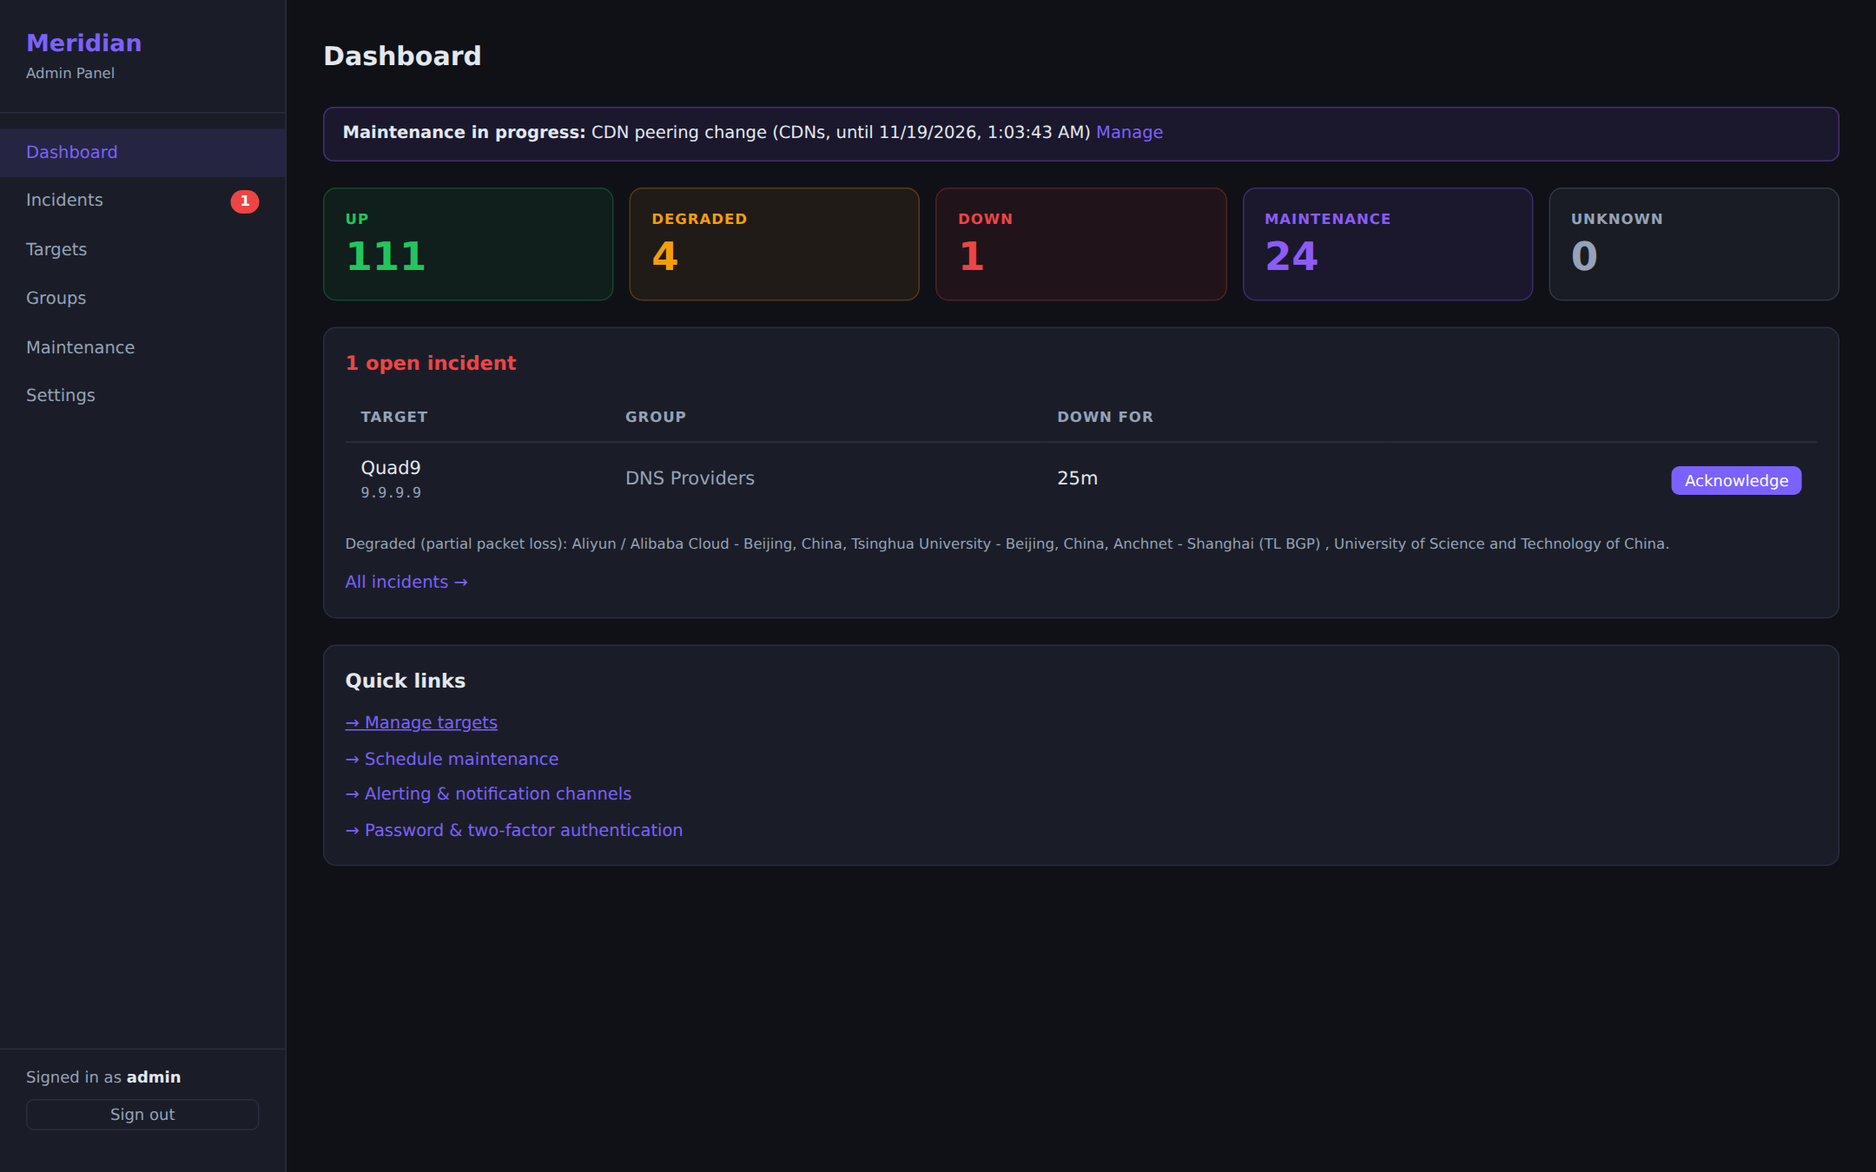
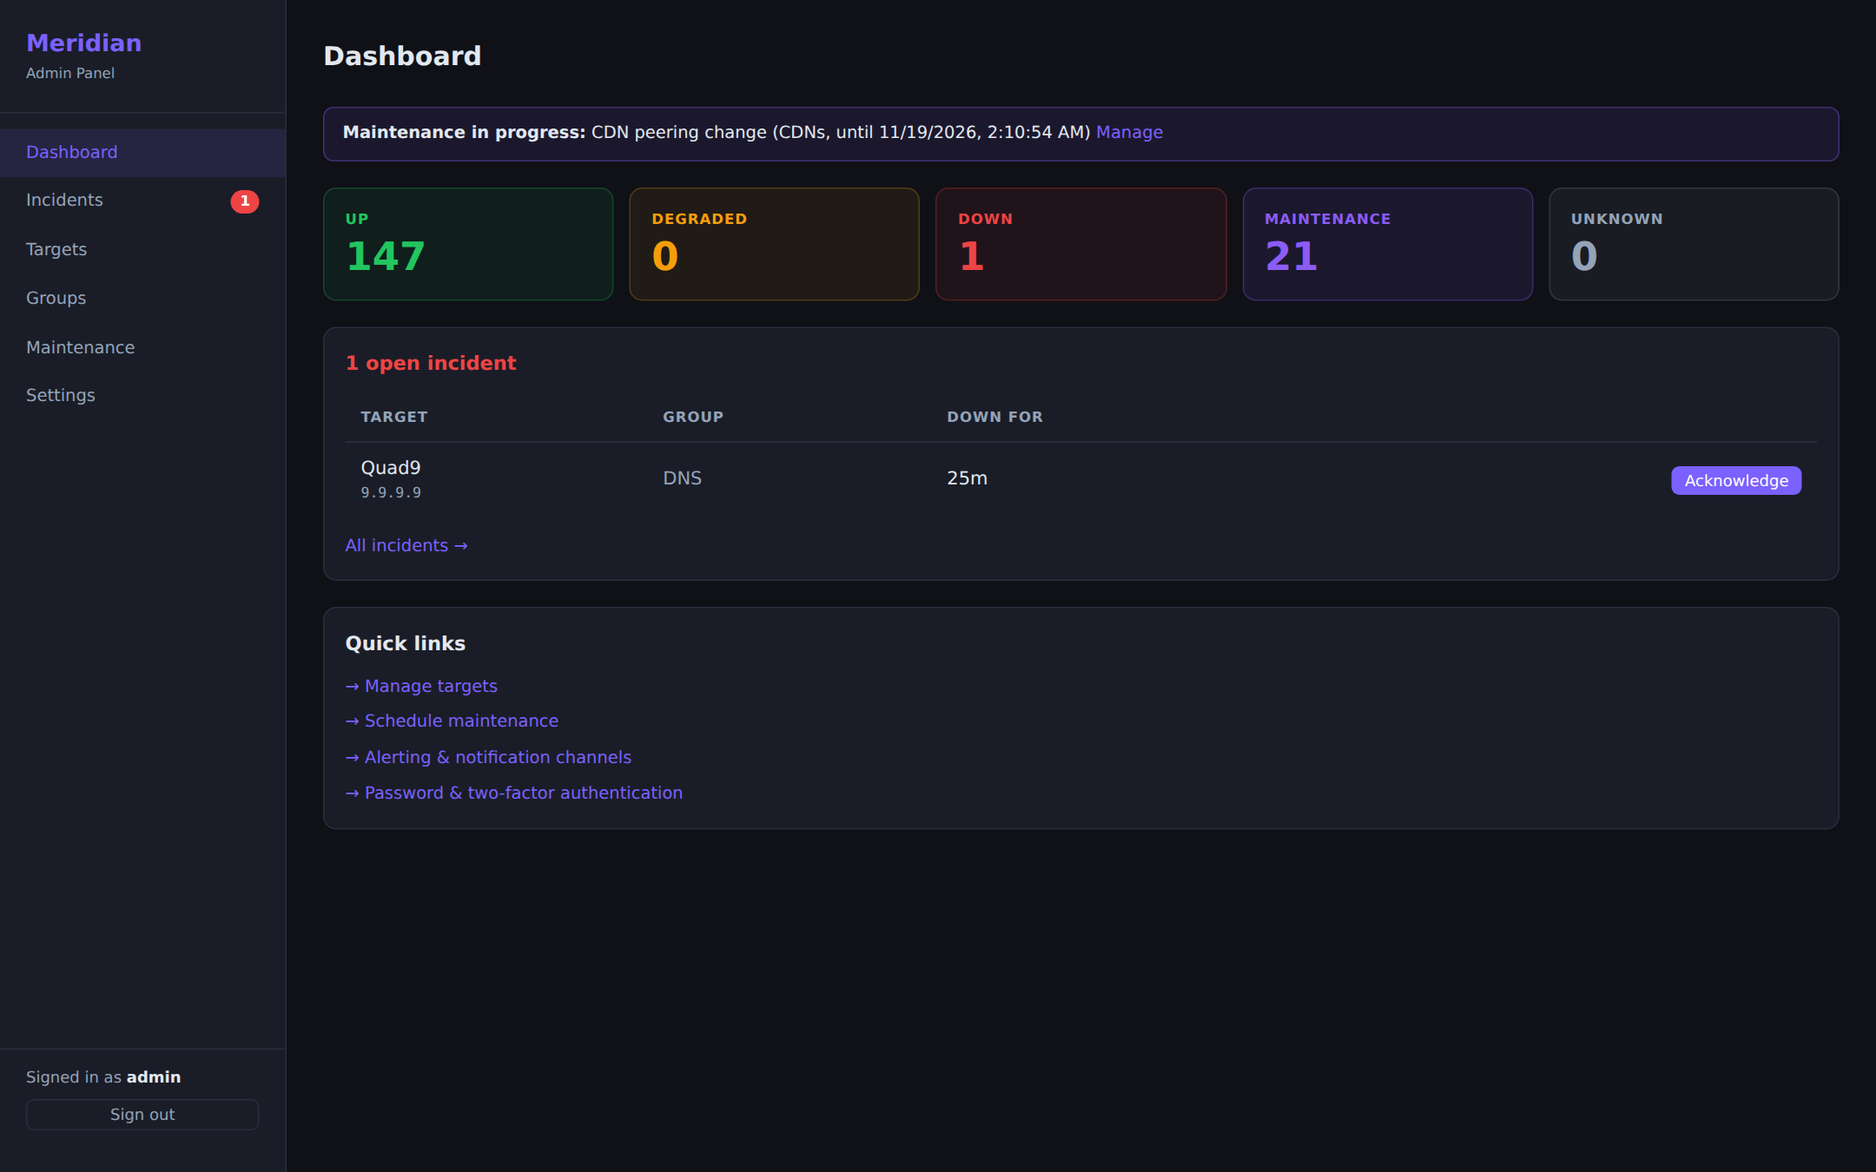
Route-change notifications, regrouped example set, refreshed screenshots
- Opt-in "route changed" notification for chat channels (silent on Pushover, never to paging channels)
- Example target set reorganised into 19 region groups (no data lost: history is per target)
- Group descriptions; tests for route-change delivery and confirmation
- Retake screenshots for the new UI (traceroute, TV mode, channel picker)

diff --git a/server/probe/notifier.js b/server/probe/notifier.js
@@ -15,9 +15,14 @@ function fmtDuration(seconds) {
   return `${Math.floor(h / 24)}d ${h % 24}h`;
 }
 
-function formatMessage({ event, target, host, group, status, targetUrl, durationSeconds, cause, digest }) {
+function formatMessage({ event, target, host, group, status, targetUrl, durationSeconds, cause, digest, pathText }) {
   if (event === 'digest') return digest;
   const loc = group ? ` (${group})` : '';
+  if (event === 'route_change') {
+    let m = `🛣 Route to ${target} changed — ${host}${loc}\n${pathText || ''}`;
+    if (targetUrl) m += `\n${targetUrl}`;
+    return m;
+  }
   let msg;
   if (event === 'recovered' || (!event && status === 'UP')) {
     const took = durationSeconds ? ` after ${fmtDuration(durationSeconds)}` : '';
@@ -102,7 +107,15 @@ const postJson = (url, body, headers) => send(url, { body, headers });
 
 const isRecovery = (p) => p.event === 'recovered' || (!p.event && p.status === 'UP');
 
+const titleOf = (p, recovered) => (
+  p.event === 'route_change' ? `Route changed: ${p.target}`
+    : recovered ? `${p.target} recovered`
+    : p.event === 'digest' ? 'Meridian alert digest'
+    : p.event === 'reminder' ? `${p.target} still DOWN` : `${p.target} is DOWN`);
+
 async function sendToChannel(channel, payload) {
+  // Paging systems are for outages only: a route change is information, not something to wake someone for
+  if (payload.event === 'route_change' && PAGING.has(channel.type)) return { skipped: true };
   const msg = formatMessage(payload);
   const recovered = isRecovery(payload);
 
@@ -129,8 +142,8 @@ async function sendToChannel(channel, payload) {
 
     case 'gotify':
       return postJson(channel.url, {
-        title: recovered ? `${payload.target} recovered` : payload.event === 'digest' ? 'Meridian alert digest' : `${payload.target} is down`,
-        message: msg, priority: recovered ? 3 : 8,
+        title: titleOf(payload, recovered),
+        message: msg, priority: payload.event === 'route_change' ? 3 : recovered ? 3 : 8,
       });
 
     case 'ntfy': {
@@ -140,8 +153,12 @@ async function sendToChannel(channel, payload) {
       u.searchParams.delete('token');
       const headers = token ? { Authorization: `Bearer ${token}` } : {};
       if (payload.event === 'digest') return postJson(u.toString(), { topic: undefined, title: 'Meridian: alert digest', message: msg, priority: 4, tags: ['warning'] }, headers);
-      const title = recovered ? `${payload.target} recovered` : payload.event === 'reminder' ? `${payload.target} still DOWN` : `${payload.target} is ${payload.status}`;
-      const body = { title, message: msg.split('\n')[0].replace(/^\S+\s/, ''), priority: recovered ? 3 : 5, tags: [recovered ? 'white_check_mark' : 'red_circle'] };
+      const title = titleOf(payload, recovered);
+      const route = payload.event === 'route_change';
+      const body = {
+        title, message: route ? msg.split('\n').slice(1).join('\n') : msg.split('\n')[0].replace(/^\S+\s/, ''),
+        priority: route ? 3 : recovered ? 3 : 5, tags: [route ? 'twisted_rightwards_arrows' : recovered ? 'white_check_mark' : 'red_circle'],
+      };
       if (payload.targetUrl) body.click = payload.targetUrl;
       return postJson(u.toString(), body, headers);
     }
@@ -160,9 +177,10 @@ async function sendToChannel(channel, payload) {
       const extra = new URLSearchParams((m[3] || '').slice(1));
       const body = {
         token: m[2], user: m[1],
-        title: recovered ? `${payload.target} recovered` : payload.event === 'digest' ? 'Meridian alert digest' : `${payload.target} is DOWN`,
+        title: titleOf(payload, recovered),
         message: msg.slice(0, 1000),
-        priority: recovered || payload.event === 'digest' ? 0 : 1, // 1 = bypass quiet hours
+        // 1 = bypass quiet hours (outages); -1 = silent (route changes); 0 = normal
+        priority: payload.event === 'route_change' ? -1 : recovered || payload.event === 'digest' ? 0 : 1,
       };
       if (payload.targetUrl) { body.url = payload.targetUrl; body.url_title = 'Open in Meridian'; }
       for (const k of ['device', 'sound']) if (extra.get(k)) body[k] = extra.get(k);
@@ -218,6 +236,7 @@ async function sendToChannel(channel, payload) {
         previous_status: payload.previousStatus,
         duration_seconds: payload.durationSeconds ?? null,
         cause: payload.cause ?? null,
+        ...(payload.event === 'route_change' ? { as_path: payload.newPath ?? null, previous_as_path: payload.prevPath ?? null } : {}),
         message: msg,
         target_url: payload.targetUrl || null,
         timestamp: payload.timestamp,
@@ -326,7 +345,25 @@ async function fireStatusChange({ kind, targetId, groupId, name, host, groupName
   await Promise.allSettled(jobs);
 }
 
+/**
+ * Tell chat-style channels that a route was confirmed to have changed. Opt-in (Settings → Alerting),
+ * never pages, and not subject to the outage flood limiter because confirmation already rate-limits it.
+ */
+async function fireRouteChange({ targetId, groupId, name, host, groupName, prevPath, newPath, names }) {
+  const channels = enabledChannels();
+  if (channels.length === 0) return;
+  const label = (a) => `AS${a}${names?.get(a) ? ` ${names.get(a)}` : ''}`;
+  const pathText = `was: ${prevPath.length ? prevPath.map(label).join(' → ') : '(unknown)'}\nnow: ${newPath.map(label).join(' → ')}`;
+  const baseUrl = loadSettings().public_base_url;
+  const payload = {
+    event: 'route_change', groupId, target: name, host, group: groupName || null, status: 'ROUTE_CHANGE',
+    prevPath, newPath, pathText, targetUrl: (baseUrl && targetId) ? `${baseUrl.replace(/\/$/, '')}/target/${targetId}` : null,
+    timestamp: new Date().toISOString(),
+  };
+  await Promise.allSettled(channels.filter((c) => !PAGING.has(c.type) && wants(c, payload)).map((c) => deliver(c, payload)));
+}
+
 // Test hooks
 function _reset() { recentSends = []; suppressUntil = 0; suppressed = []; if (digestTimer) clearTimeout(digestTimer); digestTimer = null; }
 
-module.exports = { fireStatusChange, sendToChannel, formatMessage, fmtDuration, recordDelivery, endpoints, retry, flood, flushDigest, PAGING, _reset };
+module.exports = { fireStatusChange, fireRouteChange, sendToChannel, formatMessage, fmtDuration, recordDelivery, endpoints, retry, flood, flushDigest, PAGING, _reset };

diff --git a/tests/notifier.test.js b/tests/notifier.test.js
@@ -146,3 +146,32 @@ test('flood: chat channels are batched into one digest, paging channels still ge
   assert.equal(calls.filter((c) => c.url === '/pd').length, 0, 'paging channels never receive digests');
   n.flood.threshold = 5;
 });
+
+test('route-change messages: formatted per channel, never sent to paging channels', async () => {
+  const rc = { event: 'route_change', target: 'Baidu', host: 'www.baidu.com', group: 'CDNs', status: 'ROUTE_CHANGE', prevPath: [55850, 4637], newPath: [55850, 3356],
+    pathText: 'was: AS55850 → AS4637\nnow: AS55850 → AS3356', targetUrl: 'https://s.example/target/14', timestamp: '2026-01-01T00:00:00Z' };
+  await n.sendToChannel({ type: 'slack', url: `${base}/slack` }, rc);
+  assert.match(json(calls[0]).text, /Route to Baidu changed[\s\S]*was: AS55850 → AS4637[\s\S]*now: AS55850 → AS3356/);
+  calls.length = 0;
+  await n.sendToChannel({ type: 'pushover', url: 'pushover://uQiRzpo4DXghDmr9QzzfQu27cmVRsG@azGDORePK8gMaC0QOYAMyEEuzJnyUi' }, rc);
+  const p = new URLSearchParams(calls[0].body);
+  assert.equal(p.get('priority'), '-1', 'silent push');
+  assert.equal(p.get('title'), 'Route changed: Baidu');
+  calls.length = 0;
+  await n.sendToChannel({ type: 'webhook', url: `${base}/hook` }, rc);
+  assert.deepEqual(json(calls[0]).as_path, [55850, 3356]); assert.deepEqual(json(calls[0]).previous_as_path, [55850, 4637]); assert.equal(json(calls[0]).event, 'route_change');
+  calls.length = 0;
+  assert.deepEqual(await n.sendToChannel({ type: 'pagerduty', url: 'pagerduty://R0UTINGKEY0123456789abcdef012345' }, rc), { skipped: true });
+  assert.deepEqual(await n.sendToChannel({ type: 'opsgenie', url: 'opsgenie://abcd1234-abcd-1234-abcd-123456789012' }, rc), { skipped: true });
+  assert.equal(calls.length, 0, 'a route change must never page anyone');
+});
+
+test('fireRouteChange: skips paging channels, honours group filters, ignores the recovery switch', async () => {
+  addChannel('slack', `${base}/chat`);
+  addChannel('pagerduty', 'pagerduty://R0UTINGKEY0123456789abcdef012345');
+  addChannel('webhook', `${base}/only-g2`, { groups: [2] });
+  addChannel('webhook', `${base}/no-recovery`, { recovery: false });
+  await n.fireRouteChange({ targetId: 1, groupId: 1, name: 'T', host: 'h', groupName: 'G', prevPath: [1, 2], newPath: [1, 3], names: new Map([[3, 'Lumen']]) });
+  assert.deepEqual(calls.map((c) => c.url).sort(), ['/chat', '/no-recovery']);
+  assert.match(json(calls.find((c) => c.url === '/chat')).text, /AS3 Lumen/);
+});

diff --git a/tests/traceroute.test.js b/tests/traceroute.test.js
@@ -172,3 +172,33 @@ test('a host that drops probes still counts as complete when the path reaches it
   await traceAndCache(t3, null, { ...deps([{ ...run([9500, 15169], false), destIp: '203.0.113.99' }]), lookupDest: async () => { throw new Error('dns down'); } });
   assert.equal(db.prepare('SELECT complete FROM traceroute_cache WHERE target_id=?').get(t3.id).complete, 0, 'a failed lookup never turns into a false "complete"');
 });
+
+test('route-change notification fires once, only for a CONFIRMED change, and only when enabled', async () => {
+  const { saveSettings } = require('../server/shared/settings');
+  const fired = [];
+  const withNotify = (seq) => ({ ...deps(seq), fireRouteChange: async (e) => { fired.push(e); } });
+  const t = seedTarget(db);
+
+  saveSettings({ notify_route_changes: false });
+  await traceAndCache(t, null, withNotify([run([9500, 4637, 15169])]));
+  await traceAndCache(t, null, withNotify([run([9500, 3356, 15169])]));
+  await traceAndCache(t, null, withNotify([run([9500, 3356, 15169])]));
+  assert.equal(fired.length, 0, 'disabled: confirmed change is recorded but nobody is told');
+  assert.equal(history(t.id).length, 2);
+
+  saveSettings({ notify_route_changes: true });
+  const t2 = seedTarget(db);
+  await traceAndCache(t2, null, withNotify([run([9500, 4637, 15169])]));
+  assert.equal(fired.length, 0, 'the first (baseline) trace is not a change');
+  await traceAndCache(t2, null, withNotify([run([9500, 3356, 15169])]));
+  assert.equal(fired.length, 0, 'one sighting is only suspected');
+  await traceAndCache(t2, null, withNotify([run([9500, 4637, 15169])]));
+  assert.equal(fired.length, 0, 'a blip that reverts is never announced');
+  await traceAndCache(t2, null, withNotify([run([9500, 3356, 15169])]));
+  await traceAndCache(t2, null, withNotify([run([9500, 3356, 15169])]));
+  assert.equal(fired.length, 1);
+  assert.deepEqual(fired[0].prevPath, [9500, 4637, 15169]); assert.deepEqual(fired[0].newPath, [9500, 3356, 15169]);
+  await traceAndCache(t2, null, withNotify([run([9500, 3356, 15169])]));
+  assert.equal(fired.length, 1, 'and not again while the route stays the same');
+  saveSettings({});
+});

diff --git a/server/probe/traceroute-backfill.js b/server/probe/traceroute-backfill.js
@@ -10,6 +10,8 @@ const { loadSettings } = require('../shared/settings');
 const CONCURRENCY = 4;
 const PENDING_RECHECK_SECONDS = 15 * 60; // a suspected change is re-verified soon, not tomorrow
 
+const notifier = require('./notifier');
+
 const defaultDeps = {
   runTraceroute: traceroute.runTraceroute,
   annotateHops: asnLookup.annotateHops,
@@ -89,6 +91,15 @@ async function traceAndCache(target, log, deps = defaultDeps) {
         if (confirms >= Math.max(1, settings.route_confirm_runs | 0)) {
           // Record the change at the time it was FIRST seen, with that run's hops
           insertHistory(pend && confirms > 1 ? pend.hops : hops, path, complete, pend && confirms > 1 ? pend.ran_at : now);
+          if (settings.notify_route_changes) {
+            const info = db.prepare('SELECT t.name, t.host, t.group_id, g.name AS group_name FROM targets t JOIN groups g ON g.id = t.group_id WHERE t.id = ?').get(target.id);
+            const names = new Map();
+            for (const h of [...hops, ...prev.hops]) if (h.asn != null && h.as_name && !names.has(h.asn)) names.set(h.asn, h.as_name.replace(/^.* - /, '').replace(/,\s*[A-Z]{2}$/, ''));
+            if (info) (deps.fireRouteChange || notifier.fireRouteChange)({
+              targetId: target.id, groupId: info.group_id, name: info.name, host: info.host, groupName: info.group_name,
+              prevPath: prev.path, newPath: path, names,
+            }).catch(() => {});
+          }
         } else {
           pendingJson = JSON.stringify({ path, hops, ran_at: now });
           pendingCount = confirms;

diff --git a/apps/admin/src/pages/settings/Alerting.jsx b/apps/admin/src/pages/settings/Alerting.jsx
@@ -120,6 +120,7 @@ export default function Alerting() {
           recover_after_successes: Number(form.recover_after_successes),
           renotify_minutes: Number(form.renotify_minutes),
           public_base_url: form.public_base_url || null,
+          notify_route_changes: !!form.notify_route_changes,
         },
       });
       toast('Alert rules saved');
@@ -166,6 +167,13 @@ export default function Alerting() {
               <input type="number" min={0} max={10080} value={form.renotify_minutes} onChange={(e) => set('renotify_minutes', e.target.value)} />
               <div className="muted help">{Number(form.renotify_minutes) > 0 ? 'Repeats until someone acknowledges the incident.' : '0 = never repeat.'}</div>
             </div>
+          </div>
+          <div className="field row">
+            <Toggle checked={!!form.notify_route_changes} onChange={(v) => set('notify_route_changes', v)} />
+            <span style={{ fontSize: 13 }}>Tell chat channels when a route changes</span>
+          </div>
+          <div className="muted help" style={{ marginTop: -8, marginBottom: 14, maxWidth: 560 }}>
+            Sends "Route to X changed: was AS… → now AS…" once a change is confirmed. Silent pushes on Pushover; never sent to PagerDuty or Opsgenie. Some targets legitimately switch carrier every few days, so try it on a channel you don't mind being chatty.
           </div>
           <div className="field" style={{ maxWidth: 440 }}>
             <label>Public base URL <span style={{ fontWeight: 400 }}>— optional</span></label>

diff --git a/tests/admin-e2e.test.js b/tests/admin-e2e.test.js
@@ -283,7 +283,7 @@ test('the bundled NZ RSP example file is a valid import and creates the expected
   assert.equal(res.status, 200, JSON.stringify(res.body));
   assert.ok(res.body.imported.targets >= 40);
   const groups = (await alice.get('/api/admin/groups')).body.map((g) => g.name);
-  for (const n of ['NZ - Domestic', 'Pacific Islands', 'DNS Infrastructure', 'Africa', 'South America']) assert.ok(groups.includes(n), n);
+  for (const n of ['NZ - Domestic', 'Pacific Islands', 'DNS', 'Africa & South America', 'Australia']) assert.ok(groups.includes(n), n);
   const again = await alice.post('/api/admin/config/import', file);
   assert.equal(again.body.imported.targets, 0, 'importing twice adds nothing');
 });

diff --git a/server/shared/settings.js b/server/shared/settings.js
@@ -33,6 +33,7 @@ function defaults() {
     renotify_minutes: 0,          // re-alert on still-open, unacknowledged incidents (0 = off)
     // Traceroute: 'auto' tries ICMP, then TCP, then UDP (UDP alone reaches few destinations)
     traceroute_method: 'auto',
+    notify_route_changes: false,  // tell chat channels when a confirmed route change is recorded
     route_confirm_runs: 2,        // a changed AS path must be seen this many runs in a row to be recorded
     // Public banner
     banner_enabled: false,

diff --git a/server/shared/schemas.js b/server/shared/schemas.js
@@ -78,6 +78,7 @@ const SettingsSchema = z.object({
   renotify_minutes: z.number().int().min(0).max(10080).optional(),
   traceroute_method: z.enum(['auto', 'icmp', 'tcp', 'udp']).optional(),
   route_confirm_runs: z.number().int().min(1).max(5).optional(),
+  notify_route_changes: z.boolean().optional(),
   banner_enabled: z.boolean().optional(),
   banner_text: z.string().max(500).optional().nullable(),
   banner_type: z.enum(['info', 'warning', 'maintenance']).optional(),

diff --git a/README.md b/README.md
@@ -6,20 +6,26 @@ Modern network latency monitoring — a spiritual successor to SmokePing.
 
 ## Screenshots
 
-**Public dashboard — overview**
+**Public dashboard — overview** (groups, ongoing incident, scheduled-maintenance banner)
 ![Overview](docs/screenshots/public-overview.png)
 
-**Public dashboard — group view**
+**Group view**
 ![Group view](docs/screenshots/public-group.png)
 
-**Public dashboard — target detail**
+**Target detail** — latency with outage, maintenance and route-change markers, 95th percentile and loss bars
 ![Target detail](docs/screenshots/public-target.png)
+
+**Traceroute** — the path as a chain of networks, with per-hop AS and load-balancing indicators
+![Traceroute](docs/screenshots/public-traceroute.png)
+
+**Incidents**
+![Public incidents](docs/screenshots/public-incidents.png)
+
+**TV / wall-board mode**
+![TV mode](docs/screenshots/tv-mode.png)
 
 **Admin — dashboard**
 ![Admin dashboard](docs/screenshots/admin-dashboard.png)
-
-**Public — incidents**
-![Public incidents](docs/screenshots/public-incidents.png)
 
 **Admin — targets**
 ![Admin targets](docs/screenshots/admin-targets.png)
@@ -29,6 +35,9 @@ Modern network latency monitoring — a spiritual successor to SmokePing.
 
 **Admin — maintenance windows**
 ![Admin maintenance](docs/screenshots/admin-maintenance.png)
+
+**Admin — adding a notification channel**
+![Admin channel](docs/screenshots/admin-channel.png)
 
 ---
 
@@ -233,6 +242,7 @@ Traces run at startup and daily per target. Each run is made with the first meth
 - **Route changes are changes of AS path.** Hop-by-hop IP comparison flagged almost every run (4,201 "changes" over 171 days for 141 targets); comparing the ordered AS path leaves a handful of real events — typically a transit-provider switch. A trace cut short by silent routers is compared leniently so it isn't mistaken for a change.
 - **Changes must be confirmed.** A changed path is recorded only if seen again on a confirming run (re-checked within ~15 minutes; Settings → Data → *Confirm after N runs*). The change is stamped with when it was first seen.
 - **On the chart.** Route changes appear as markers on the latency timeline, so you can see a path change and a latency shift together.
+- **Tell me.** Turn on *Tell chat channels when a route changes* (Settings → Alerting) to get "Route to X changed: was AS… → now AS…" once a change is confirmed. It is silent on Pushover, never sent to PagerDuty/Opsgenie, respects each channel's group filter, and is off by default because some targets legitimately switch carrier every few days.
 - Reverse DNS is resolved in parallel; up to 50 historical path snapshots are kept per target; private/RFC-1918 hops are hidden from the public view.
 
 To clean up history recorded by the older address-based rule, run `node scripts/compact-traceroute-history.js --dry-run`, then without `--dry-run` (it snapshots the database first).
@@ -330,7 +340,7 @@ Open `/tv` (or **TV mode** in the sidebar) on a display. It has no navigation, a
 
 ## Example target sets
 
-`examples/nz-rsp-targets.json` is a starter set for an NZ retail service provider (NZ-hosted infrastructure, Pacific, `.nz` and root DNS, plus regions often missing from hosting-provider lists). Import it with Settings → Data → Import → *Add what's missing*. See `examples/README.md` for why CDN-fronted sites make poor regional targets.
+`examples/nz-rsp-targets.json` is a starter set for an NZ retail service provider (63 verified targets: NZ-hosted infrastructure, the Pacific, `.nz` and root DNS, and regions often missing from hosting-provider lists such as South Asia, South-East Asia and Africa), organised into 19 region groups. Redundant hosting-provider duplicates are deliberately left out: ten targets on the same company in the same region add noise, not information. Import it with Settings → Data → Import → *Add what's missing*. See `examples/README.md` for why CDN-fronted sites make poor regional targets.
 
 ---
 
